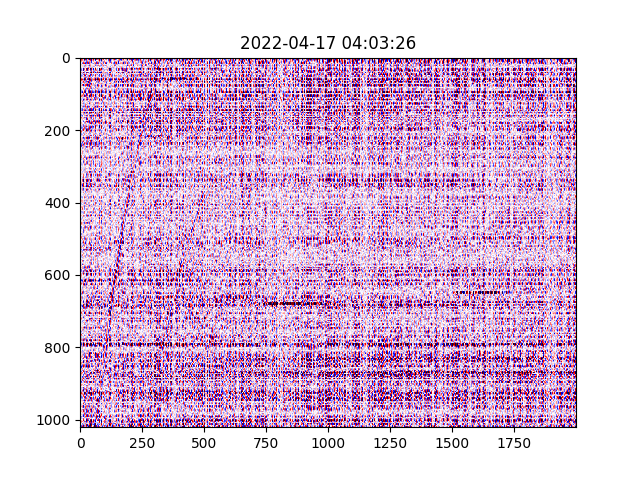
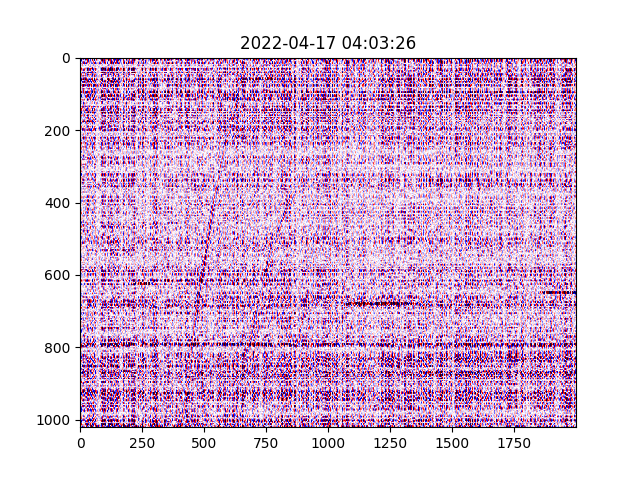
make apply_gradcam.py

diff --git a/proc/apply_gradcam.py b/proc/apply_gradcam.py
@@ -1,0 +1,117 @@
+# %%
+from pathlib import Path
+
+import matplotlib.pyplot as plt
+import numpy as np
+import torch
+import torch.nn.functional as F
+from build_model import build_model
+
+
+# Grad-CAM用フック保存用
+class GradCAM:
+	def __init__(self, model: torch.nn.Module, target_layer: str = 'layer4'):
+		self.model = model
+		self.model.eval()
+		self.target_layer = dict([*model.named_modules()])[target_layer]
+		self.gradients = None
+		self.activations = None
+
+		# hookを登録
+		self.target_layer.register_forward_hook(self._save_activation)
+		self.target_layer.register_full_backward_hook(self._save_gradient)
+
+	def _save_activation(self, module, input, output):
+		self.activations = output.detach()
+
+	def _save_gradient(self, module, grad_input, grad_output):
+		self.gradients = grad_output[0].detach()
+
+	def __call__(self, x: torch.Tensor, class_idx: int | None = None):
+		x = x.requires_grad_()
+		output = self.model(x)
+
+		if class_idx is None:
+			class_idx = int(torch.sigmoid(output).item() > 0.5)
+
+		# バックプロパゲーション（targetクラスのみ）
+		self.model.zero_grad()
+		output[0, 0].backward(retain_graph=True)
+
+		# 勾配と特徴マップを取得
+		grads = self.gradients  # (1, C, H, W)
+		acts = self.activations  # (1, C, H, W)
+		weights = grads.mean(dim=(2, 3), keepdim=True)  # GAP over H,W
+
+		# 重み付き特徴マップの和
+		cam = (weights * acts).sum(dim=1, keepdim=True)  # (1, 1, H, W)
+		cam = F.relu(cam)
+
+		# 正規化して返す
+		cam = F.interpolate(cam, size=x.shape[2:], mode='bilinear', align_corners=False)
+		cam -= cam.min()
+		cam /= cam.max() + 1e-8  # avoid division by zero
+		return cam, torch.sigmoid(output).item()
+
+
+def visualize_gradcam(
+	input_tensor: torch.Tensor, model: torch.nn.Module, device: str = 'cpu', name=False
+):
+	gradcam = GradCAM(model.to(device))
+	input_tensor = input_tensor.unsqueeze(0).to(device)  # (1, 1, H, W)
+	cam, prob = gradcam(input_tensor)
+
+	cam_np = cam.squeeze().cpu().numpy()
+	input_np = input_tensor.squeeze().detach().cpu().numpy()
+	print(cam_np)
+	plt.figure(figsize=(10, 5))
+	plt.subplot(1, 2, 1)
+	plt.title(f'Input (Pred prob={prob:.2f})')
+	plt.imshow(input_np, aspect=2, cmap='seismic', origin='lower', vmin=-2, vmax=2)
+	plt.tight_layout()
+	plt.subplot(1, 2, 2)
+	plt.title('Grad-CAM')
+	plt.imshow(cam_np, aspect=2, cmap='jet', origin='lower')
+	# plt.colorbar()
+	if name:
+		plt.suptitle(f'{name}')
+	plt.tight_layout()
+	if name:
+		plt.savefig(f'{name}.png', dpi=300)
+
+
+data_dir = '/workspace/data'
+event_file = data_dir + '/extract_event_2s.npy'
+noise_file = data_dir + '/extract_noise_2s.npy'
+time_file = data_dir + '/extract_event_time.npy'
+event_data = np.load(event_file)
+noise_data = np.load(noise_file)
+times = np.load(time_file, allow_pickle=True)
+# scaling (trace normalization)
+event_data = (event_data - np.mean(event_data, axis=2, keepdims=True)) / np.std(
+	event_data, axis=2, keepdims=True
+)
+noise_data = (noise_data - np.mean(noise_data, axis=2, keepdims=True)) / np.std(
+	noise_data, axis=2, keepdims=True
+)
+device = 'cuda' if torch.cuda.is_available() else 'cpu'
+model = build_model().to(device)
+
+model_dir = Path('/workspace/output/train')
+model.load_state_dict(torch.load(model_dir / 'best_model.pth', map_location=device))
+
+
+for i in range(10):
+	event_sample = torch.tensor(event_data[i], dtype=torch.float32).unsqueeze(0)
+	# (1, 1, H, W)
+	time = times[i].strftime('%Y-%m-%d %H-%M-%S')
+	visualize_gradcam(event_sample, model, device=device, name=time)
+
+
+for i in range(10):
+	noise_sample = torch.tensor(noise_data[i], dtype=torch.float32).unsqueeze(0)
+	# (1, 1, H, W)
+	time = times[i].strftime('%Y-%m-%d %H-%M-%S')
+	visualize_gradcam(noise_sample, model, device=device)
+
+# %%

diff --git a/proc/_test_train_woscale.py b/proc/_test_train_woscale.py
@@ -173,19 +173,11 @@ noise_file = data_dir + '/extract_noise_2s.npy'
 event_data = np.load(event_file)
 noise_data = np.load(noise_file)
 
+save_dir = Path('/workspace/output/train')
+
 # reverse the order of event new_event first
 event_data = event_data[::-1]
 noise_data = noise_data[::-1]
-#
-# scaling (trace normalization)
-event_data = (event_data - np.mean(event_data, axis=2, keepdims=True)) / np.std(
-	event_data, axis=2, keepdims=True
-)
-noise_data = (noise_data - np.mean(noise_data, axis=2, keepdims=True)) / np.std(
-	noise_data, axis=2, keepdims=True
-)
-
-save_dir = Path('/workspace/output/_test_train_norm')
 
 n = 0
 test_range = (n, n + 130)  # 10%
@@ -247,9 +239,14 @@ test_loader = DataLoader(
 )
 
 # Model & device
-device = torch.device('cuda:1' if torch.cuda.is_available() else 'cpu')
+device = torch.device('cuda' if torch.cuda.is_available() else 'cpu')
 model = build_model().to(device)
+total_params = sum(p.numel() for p in model.parameters())
+# 学習可能なパラメータ数（requires_grad=True のみ）
+trainable_params = sum(p.numel() for p in model.parameters() if p.requires_grad)
 
+print(f'総パラメータ数: {total_params:,}')
+print(f'学習可能パラメータ数: {trainable_params:,}')
 # Train
 train(model, (train_loader, valid_loader), device, save_dir)
 
@@ -259,7 +256,7 @@ model.load_state_dict(torch.load(save_dir / 'best_model.pth', map_location=devic
 for split_name, loader in [
 	('train', train_loader),
 	('test', test_loader),
-	('valid', valid_loader),
+	('eval', valid_loader),
 ]:
 	loss, acc = evaluate(model, loader, device)
 	print(f'{split_name.capitalize()} – Loss: {loss:.4f} | Acc: {acc:.4f}')

diff --git a/proc/util/build_model.py b/proc/util/build_model.py
@@ -1,0 +1,14 @@
+from torch import nn
+from torchvision.models import resnet50
+
+
+def build_model(input_channels: int = 1) -> nn.Module:
+	"""ResNet‑50 encoder with custom first conv and sigmoid output."""
+	model = resnet50(weights=None)
+	# Adapt first conv layer to 1 channel
+	model.conv1 = nn.Conv2d(
+		input_channels, 64, kernel_size=7, stride=2, padding=3, bias=False
+	)
+	# Replace final FC for binary classification
+	model.fc = nn.Sequential(nn.Flatten(), nn.Linear(2048, 1))
+	return model

diff --git a/proc/extract_event.py b/proc/extract_event.py
@@ -80,7 +80,6 @@ event_df = pd.read_csv(
 )
 
 event_df['File Timestamp (UTC)'] = pd.to_datetime(event_df['File Timestamp (UTC)'])
-
 event_times = pd.to_datetime(event_df['File Timestamp (UTC)'], utc=True)
 
 # 時刻を抽出する正規表現パターン
@@ -144,4 +143,9 @@ np.save(
 	event_times,
 )
 
+#  saved float16 file for colab
+np.save(
+	'/workspace/data/extract_event_2s_float16.npy',
+	extract_events.astype(np.float16),
+)
 # %%

diff --git a/proc/extract_noise.py b/proc/extract_noise.py
@@ -86,7 +86,7 @@ np.save(
 # compress saved file for colab
 np.savez_compressed(
 	'/workspace/data/extract_noise_2s.npz',
-	extract_noise=extract_noise,
+	extract_noise=extract_noise.astype(np.float16),
 )
 
 # %%
